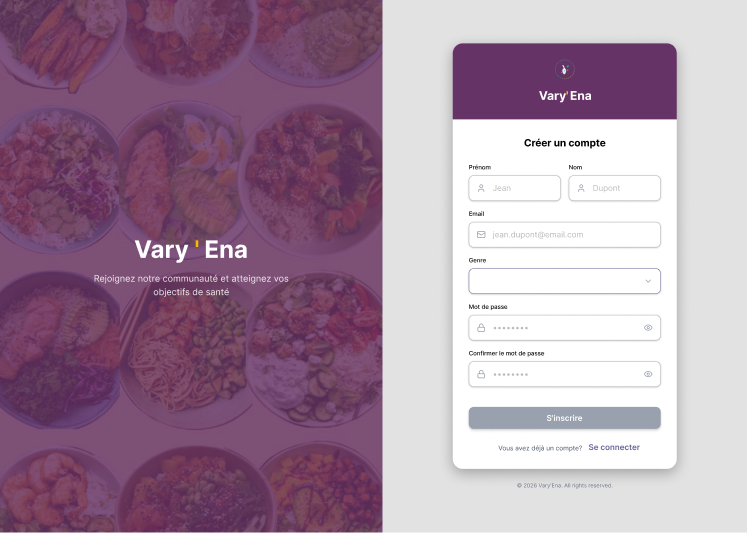
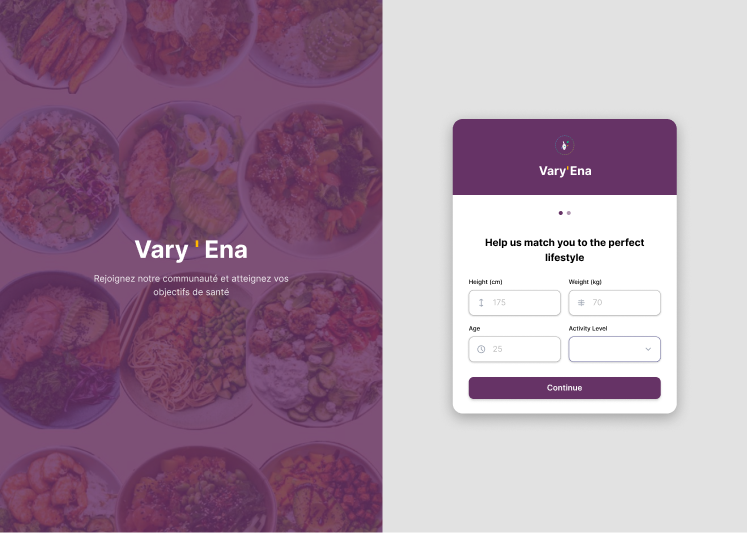
[mvc]health inscription

Changed region(s): [[0.585, 0.06, 0.9237, 0.9306]]

diff --git a/public/assets/css/insc-global.css b/public/assets/css/insc-global.css
@@ -20,3 +20,6 @@ a {
 button {
   font-family: inherit;
 }
+
+
+

diff --git a/app/Views/signup/health.php b/app/Views/signup/health.php
@@ -1,0 +1,149 @@
+<!DOCTYPE html>
+<html lang="en">
+
+<head>
+    <meta charset="UTF-8">
+    <meta name="viewport" content="width=device-width, initial-scale=1.0">
+    <title>Health Signup</title>
+
+    <link rel="preconnect" href="https://fonts.googleapis.com">
+    <link rel="preconnect" href="https://fonts.gstatic.com" crossorigin>
+    <link href="https://fonts.googleapis.com/css2?family=Inter:wght@400;500;600;700&display=swap" rel="stylesheet">
+
+    <link rel="stylesheet" href="<?= base_url('assets/css/insc-global.css') ?>">
+    <link rel="stylesheet" href="<?= base_url('assets/css/insc-health.css') ?>">
+</head>
+
+<body>
+    <section id="section-onboarding">
+        <div class="split-layout">
+
+            <!-- LEFT -->
+            <div class="left-panel"
+                style="background-image:
+                    linear-gradient(rgba(102, 51, 102, 0.83), rgba(102, 51, 102, 0.83)),
+                    url('<?= base_url('assets/images/signup/c7860d66b83eb9d06c543aa34ea9bc9aa4727194.png') ?>');
+                    background-size: cover;
+                    background-position: center;">
+                <div class="brand-large">
+                    <span>Vary</span><span class="highlight">'</span><span>Ena</span>
+                </div>
+                <p class="subtitle">
+                    Rejoignez notre communauté et atteignez vos objectifs de santé
+                </p>
+            </div>
+
+            <!-- RIGHT -->
+            <div class="right-panel">
+
+                <div class="card">
+
+                    <!-- HEADER -->
+                    <div class="card-header">
+
+                        <div class="logo-icon-merged" style="position: relative; width: 40px; height: 40px;">
+                            <img src="<?= base_url('assets/images/signup/76_241.svg') ?>" style="position:absolute; left:1px; top:1px; width:38px; height:39px;">
+                            <img src="<?= base_url('assets/images/signup/76_244.svg') ?>" style="position:absolute; left:15px; top:16.5px; width:8px; height:13.5px;">
+                            <img src="<?= base_url('assets/images/signup/76_249.svg') ?>" style="position:absolute; left:16px; top:12px; width:3px; height:6.5px;">
+                            <img src="<?= base_url('assets/images/signup/76_252.svg') ?>" style="position:absolute; left:24px; top:11.5px; width:3.75px; height:4.625px;">
+                            <img src="<?= base_url('assets/images/signup/76_255.svg') ?>" style="position:absolute; left:13px; top:25px; width:2px; height:2px;">
+                            <img src="<?= base_url('assets/images/signup/76_258.svg') ?>" style="position:absolute; left:19px; top:22px; width:2px; height:2px;">
+                            <img src="<?= base_url('assets/images/signup/76_261.svg') ?>" style="position:absolute; left:25px; top:20.5px; width:2px; height:2px;">
+                        </div>
+
+                        <div class="brand-small">
+                            <span>Vary</span><span class="highlight">'</span><span>Ena</span>
+                        </div>
+                    </div>
+
+                    <!-- BODY -->
+                    <div class="card-body">
+
+                        <!-- PROGRESS -->
+                        <div class="pagination">
+                            <div class="dot"></div>
+                            <div class="dot active"></div>
+                        </div>
+
+                        <h2 class="heading">
+                            Help us match you to the perfect lifestyle
+                        </h2>
+
+                        <!-- ERRORS -->
+                        <?php if (session()->getFlashdata('errors')): ?>
+                            <div class="error-box">
+                                <?php foreach (session()->getFlashdata('errors') as $msg): ?>
+                                    <p><?= esc((string) $msg) ?></p>
+                                <?php endforeach; ?>
+                            </div>
+                        <?php endif; ?>
+
+                        <!-- FORM -->
+                        <form class="form-grid" method="POST" action="<?= base_url('/signup/health') ?>">
+
+                            <div class="form-group">
+                                <label class="form-label">Height (cm)</label>
+                                <div class="input-wrapper">
+                                    <div class="input-icon">
+                                        <img src="<?= base_url('assets/images/signup/76_290.svg') ?>">
+                                    </div>
+                                    <input type="number" name="taille" class="form-input"
+                                        placeholder="175"
+                                        value="<?= old('taille') ?>">
+                                </div>
+                            </div>
+
+                            <div class="form-group">
+                                <label class="form-label">Weight (kg)</label>
+                                <div class="input-wrapper">
+                                    <div class="input-icon">
+                                        <img src="<?= base_url('assets/images/signup/76_301.svg') ?>">
+                                    </div>
+                                    <input type="number" name="poids" class="form-input"
+                                        placeholder="70"
+                                        value="<?= old('poids') ?>">
+                                </div>
+                            </div>
+
+                            <div class="form-group">
+                                <label class="form-label">Age</label>
+                                <div class="input-wrapper">
+                                    <div class="input-icon">
+                                        <img src="<?= base_url('assets/images/signup/76_312.svg') ?>">
+                                    </div>
+                                    <input type="number" name="age" class="form-input"
+                                        placeholder="25"
+                                        value="<?= old('age') ?>">
+                                </div>
+                            </div>
+
+                            <div class="form-group">
+                                <label class="form-label">Activity Level</label>
+                                <div class="input-wrapper">
+                                    <select name="activity_level" class="form-select">
+                                        <option value="" disabled selected></option>
+                                        <option value="low">Low</option>
+                                        <option value="medium">Medium</option>
+                                        <option value="high">High</option>
+                                    </select>
+                                    <div class="select-icon">
+                                        <img src="<?= base_url('assets/images/signup/76_323.svg') ?>">
+                                    </div>
+                                </div>
+                            </div>
+
+                            <button type="submit" class="btn-primary">
+                                Continue
+                            </button>
+
+                        </form>
+
+                    </div>
+                </div>
+
+            </div>
+        </div>
+    </section>
+</body>
+
+</html>

diff --git a/app/Controllers/AuthController.php b/app/Controllers/AuthController.php
@@ -82,4 +82,53 @@ class AuthController extends BaseController
 
         return redirect()->to('/signup/health');
     }
+
+    public function showHealthForm()
+    {
+        SessionService::initSignupDraft();
+
+        $user = SessionService::getNested('signup_draft.user');
+
+        if (empty($user)) {
+            return redirect()->to('/signup');
+        }
+
+        return view('signup/health');
+    }
+
+    public function storeHealthInfo()
+    {
+        $data = $this->request->getPost();
+
+        $clientModel = new \App\Models\ClientModel();
+
+        $result = $clientModel->storeHealthDraft($data);
+
+        if ($result['status'] === false) {
+
+            $flatErrors = [];
+
+            foreach ($result['errors'] as $error) {
+                if (is_array($error)) {
+                    foreach ($error as $msg) {
+                        $flatErrors[] = (string) $msg;
+                    }
+                } else {
+                    $flatErrors[] = (string) $error;
+                }
+            }
+
+            return redirect()
+                ->back()
+                ->withInput()
+                ->with('errors', $flatErrors);
+        }
+
+        SessionService::setNested(
+            'signup_draft.health',
+            $result['data']
+        );
+
+        return redirect()->to('/signup/goals');
+    }
 }

diff --git a/app/Models/ClientModel.php b/app/Models/ClientModel.php
@@ -147,4 +147,32 @@ class ClientModel extends Model
             ]
         ];
     }
+
+    public function storeHealthDraft($data)
+    {
+        $errors = [];
+
+        if (!isset($data['poids']) || !is_numeric($data['poids'])) {
+            $errors['poids'] = "Poids invalide";
+        }
+
+        if (!isset($data['taille']) || !is_numeric($data['taille'])) {
+            $errors['taille'] = "Taille invalide";
+        }
+
+        if (!empty($errors)) {
+            return [
+                'status' => false,
+                'errors' => $errors
+            ];
+        }
+
+        return [
+            'status' => true,
+            'data' => [
+                'poids' => (float) $data['poids'],
+                'taille' => (float) $data['taille']
+            ]
+        ];
+    }
 }
